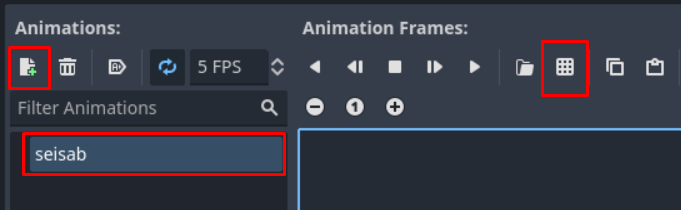
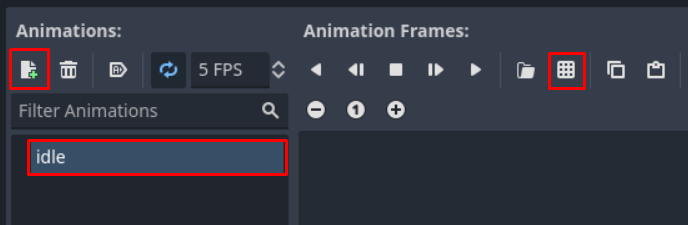
physics chapter complete (finally)

diff --git a/2d-mang/fuusika.md b/2d-mang/fuusika.md
@@ -38,7 +38,7 @@ Võiksid sarnase valmis kirjutada:
 ```gdscript
 @export_range(250, 750, 25) var jump_force: int = 500
 
-... (vahepealsed koodiread)
+... (muu kood)
 
 func vertical_movement() -> void:
 	velocity.y += GRAVITY
@@ -102,7 +102,7 @@ Järgnev rida saavutab seda:
 ```gdscript
 @export_range(1, 25) var mass: int = 1
 
-... (vahepealsed koodiread)
+... (muu kood)
 
 func vertical_movement() -> void:
 	velocity.y += GRAVITY * mass
@@ -110,7 +110,56 @@ func vertical_movement() -> void:
 
 ## Ronimine
 
-Lisame tegelasele lõpuks ronimise funktsionaalsuse. Tegelane saab ronida vajutades Z-klahvi, et seinast kinni hoida ja X-klahvi (hüppamise klahv), et üles ronida.
+Lisame tegelasele lõpuks ronimise funktsionaalsuse. Tegelane saab seina lähedal Z-klahvi vajutades üles ronida.
 
-{: .todo }
-ronimine, collision layer + mask
+### Ülesanne
+
+Loo eraldi funktsioon nimega `check_climbing`.
+`check_climbing` määrab väärtuse uuele *bool*-tüüpi muutujale `is_climbing`, mis on algul väär.
+Väärtust määrates pead kontrollima, kas toimub tegevus nimega `climb` ja kas tegelane on seinaga kontaktis.
+Mõtle ka välja, millisel real `check_climbing` peaks `_physics_process` funktsioonis olema.
+
+Lahendus näeb välja selline:
+
+```gdscript
+var is_climbing: bool = false
+
+func _physics_process(delta: float) -> void:
+	check_climbing()
+	... (muu kood)
+
+... (muu kood)
+
+func check_climbing() -> void:
+	is_climbing = Input.is_action_pressed("climb") and is_on_wall()
+```
+
+---
+
+Nüüd on uue muutuja kaudu võimalik teada saada, kas mängijal on ronimiseks kõik kriteeriumid täidetud või mitte. Võtame selle muutuja kasutusele.
+
+Ronimine on vertikaalne liikumine, seega ronimise loogika läheb vastavasse funktsiooni. Loo uus eksporditud muutuja nimega `climb_speed`, mis on täisarvuline väärtus vahemikus 100-300. Vaikimisi väärtuseks võid panna 150. Nüüd `vertical_movement` funktsioonis võid lihtsalt kirjutada algusesse, et kui tegelane ronib, siis muudad vastavalt `velocity.y` väärtust.
+
+```
+func vertical_movement() -> void:
+	if (is_climbing):
+		velocity.y = -climb_speed
+		return
+	... (muu kood)
+```
+
+Mängu stseenis on vaja tekitada sein, millest üles ronida saab. Loo koopia Ground sõlmest, valides see ja vajutades klahve `Ctrl + D` või parem-kliki menüüst valides `Duplicate`. See sein peab olema pööratud 90 kraadi läbi `rotation` omaduse. Lisaks liiguta see koordinaatidele x: 1132, y: 72. Kui nüüd mängu stseeni tööle paned ja liigutad tegelase akna paremasse äärde, peaksid saama temaga vaikselt üles ronida.
+
+## Füüsika kihid
+
+Üks viimane, oluline asi on veel füüsika kohta vaja välja tuua. Eksisteerivad füüsika kihid (*physics layers*), kus üks kiht esindab ühte liiki füüsilisi kehasid. Näiteks erinevad liikumatud maapinnad kasutavad ühte kihti, liikuvad olendid kasutavad teist kihti ja mängija hoopis kolmandat. Hetkel on nii mängija kui ka maapind esimesel kihil. Mäng töötab niimoodi, aga pole parim praktika see sedasi jätta.
+
+![Füüsika kihid inspektoris.](./pildid/fuusika/fuusika-kihid.png)
+
+Seega liigu tegelase stseeni, vali juursõlm ja leia inspektoris `CharacterBody2D -> Collision` sektsioon. Siin on meile olulised kaks muutujat: sõlme füüsiline kiht ehk *Layer* ja mis kihil olevaid sõlmi see sõlm ära tunneb ehk *Mask*. Määra maski väärtuseks 1. kihi asemel 2. kiht. Nüüd reageerib mängija füüsiline keha vaid 2. kihil olevatele sõlmedele.
+
+Selleks, et mängija nüüd uuesti mängu lahti tehes läbi maa ei kukuks, peame maapinna stseenis sama protsessi kordama, aga maapinna füüsiliseks kihiks 2. kihi määrama. 
+
+Kõik peaks jälle ilusti töötama ja oled õppinud ühe hea praktika juurde.
+
+Järgmises osas tegeleme rohkem visuaalidega: kasutame mängija animatsioone, mille lõime ja võtame kasutusele ka maapinna spraidid.

diff --git a/2d-mang/ronija.md b/2d-mang/ronija.md
@@ -46,9 +46,6 @@ Saame oma animatsioonid luua päris lihtsalt - loome uue animatsiooni, paneme ta
 
 Kuna üks animatsioon nimega `default` on juba olemas, siis võid alustada sellega, et annad talle uue nime `idle`. Seda saad teha nime peale ühe korra hiirega vajutades ja siis kirjutades. Järgmisena otsi üles Animation Frames sektsioonis ruudukujuline 9 osaks jagatud nupp. Hiirt selle nupu peal hoides näidatakse vihjet "Add frames from sprite sheet (CTRL+Shift+O)". Vajuta sellele nupule.
 
-{: .todo }
-Vana pilt
-
 ![Pilt tähistamas kõiki nuppe, mida AnimatedSprite2D-ga animatsioonide loomiseks vaja on.](./pildid/ronija/animatsiooni-loomine.png)
 
 Avaneb uus aken, mis palub sul spraidi faili valida. Leia üles tegelase fail (nimega `platformerPack_character.png`) ja ava see. Järjekordne aken avaneb, kus on näha, kuidas spraidi fail ära tükeldatud on. Algul peaks ta olema 16 osaks tükeldatud - 4 horisontaalselt ja 4 vertikaalselt. See pole õige. Muuda akna paremas pooles muutuja `Vertical` väärtuseks 4 asemel 2. Seejärel vajuta hiirega **vasaku ülemise** kasti peale. All peaks olema nüüd nupp, kus on kirjas `Add 1 Frame(s)`. Vajuta sellele, et valitud kaadrid lisada. Seismise animatsioon on nüüd olemas! See koosneb lihtsalt ühest kaadrist, seega ei näe see väga muljetavaldav välja.
